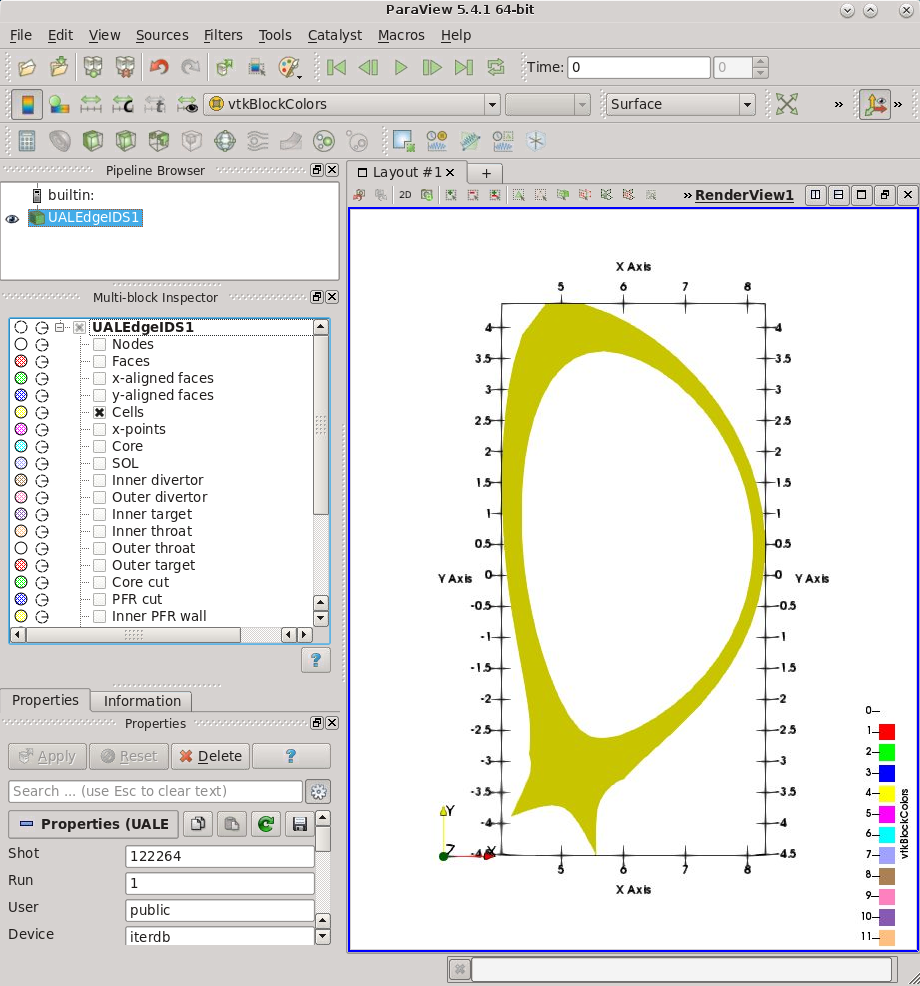
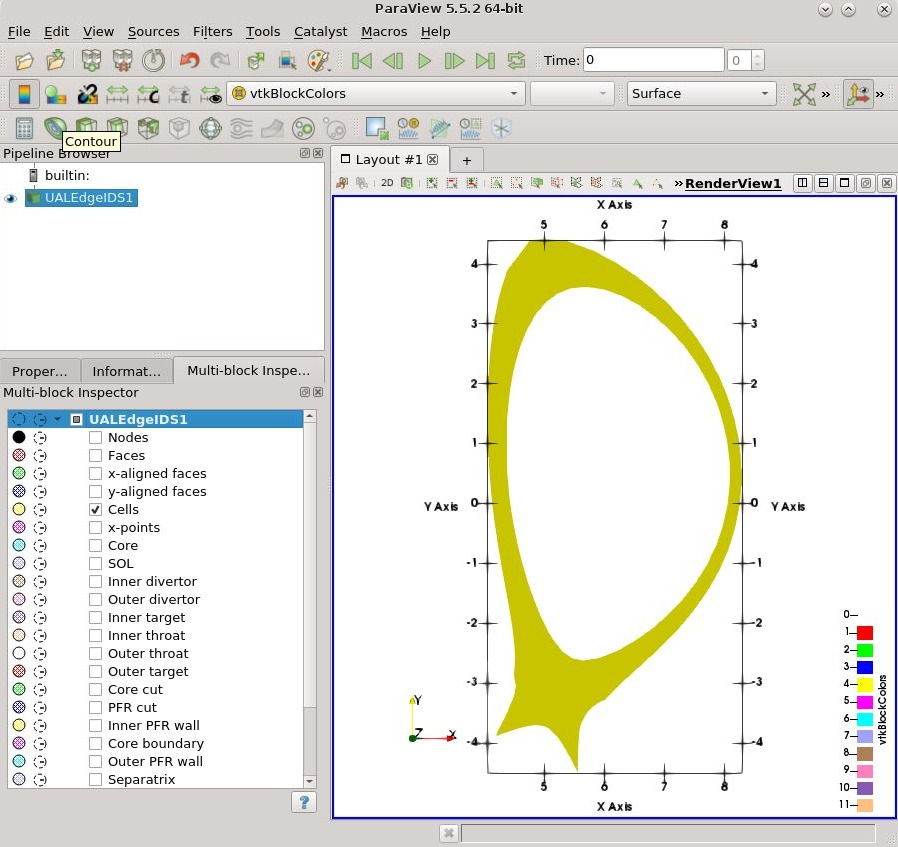
ReadUALEdge: documentation update.

diff --git a/doc/source/tutorial/edgeualplugin/index.rst b/doc/source/tutorial/edgeualplugin/index.rst
@@ -172,12 +172,14 @@ Loading and running the ReadUALEdge plugin is done in the next few steps:
    :numref:`pv-run-plugin-3` for ITER tokamak device.
 
   .. _pv-run-plugin-1:
+
   .. figure:: images/6_running_plugin.png
      :alt: Running the ReadUALEdge plugin
 
      Running the ReadUALEdge plugin
 
   .. _pv-run-plugin-2:
+
   .. figure:: images/7_plugin_run1.png
      :width: 100%
      :alt: Applying the ReadUALEdge plugin IDS database parameters
@@ -185,41 +187,46 @@ Loading and running the ReadUALEdge plugin is done in the next few steps:
      Applying the ReadUALEdge plugin database parameters
 
   .. _pv-run-plugin-3:
+
   .. figure:: images/8_plugin_run2.png
      :width: 100%
      :alt: Example of visualized data gathered from public ``iter`` database
 
      Example of visualized data gathered from public ``iter``  database
 
-.. note::
-   Sometimes after opening Iter tokamak database **no** visual
-   change in the ``View`` ``Browser`` can be seen, because of the
-   default zoom. To solve that press twice the :guilabel:`Reset`
+.. Note::
+
+   Sometimes after pressing the :guilabel:`Apply` button there might be
+   **no** visual change in the ``View`` ``Browser`` due to the
+   default zoom settings. To solve that press twice the :guilabel:`Reset`
    button found in :guilabel:`Toolbar`.
 
 Data analysis
 -------------
 
-In previous chapter we can notice that we have loaded data, but no
-useful information could be seen, just the geometry of the tokamak displaying
-a lot of colored grid elements. In this tutorial we'll first explain what
-those multiple colors represent and then how to display full information we want.
+In the previous section it could be noticed that the contents of the IDS were
+loaded, but a mix-up of different colors could be seen
+(as in Figure :numref:`pv-run-plugin-3`), displaying only the the geometry of
+the tokamak. Here it will be explained what those multiple colors represent and
+then how to display only the wanted segment of the full available data.
 
 Grid subsets and Multi-Block Inspector
 ~~~~~~~~~~~~~~~~~~~~~~~~~~~~~~~~~~~~~~
 
-Briefly said, grid subset is “a part” of the full grid geometry. In our case,
-the **Multi-Block Inspector** uses the grid subsets as blocks of data,
-displaying them in different colors with one color per block of data
+Briefly said, **grid subset** is a segment of the full **grid geometry**
+description which occur in codes such as **SOLPS-ITER** and **JINTRAC EDGE2D**.
+In our case,
+the **Multi-Block Inspector** uses the grid subsets as **blocks of data**,
+displaying them in **different colors** with one color per block of data
 as seen in Figure :numref:`pv-run-plugin-3`, and it
-is used to select and display only the wanted blocks of data.
+is used to select and display only a selection of the available blocks.
 
-To load the Multi-Block Inspector, go to Menu bar
-:menuselection:`View` and check the :menuselection:`Multi-Block
-Inspector` selection, as seen in :numref:`pv-loading-mbinsp`. Then
+To load the :guilabel:`Multi-Block Inspector`, go to :guilabel:`Menu bar`
+-> :guilabel:`View` and check the :guilabel:`Multi-Block Inspector`
+selection, as seen in :numref:`pv-loading-mbinsp`. Then
 you should have already noticed that a new interface called
-*Multi-Block Inspector* opened at the bottom of the Pipeline Browser,
-as seen in :numref:`pv-mbinsp`.
+**Multi-Block Inspector** tab opened at the bottom of the
+:guilabel:`Pipeline Browser`, as seen in :numref:`pv-mbinsp`.
 
 .. _pv-loading-mbinsp:
 .. figure:: images/11_loading_mbinsp.png
@@ -231,8 +238,9 @@ as seen in :numref:`pv-mbinsp`.
 
    Multi-Block Inspector
 
-Here we can select the wanted blocks we want to be seen in the *View
-Browser*. An example is shown in :numref:`pv-mbinscp-cells`, where
+Here any blocks can be selected or deselected and instant block selection change
+can be observed in the :guilabel:`View Browser`.
+An example is shown in :numref:`pv-mbinscp-cells`, where
 only the ``Cells`` block was selected, and in
 :numref:`pv-mbinscp-nodes`, where only the ``Nodes`` block was
 selected. We can also choose multiple blocks at once, as shown in
@@ -242,72 +250,80 @@ selected. We can also choose multiple blocks at once, as shown in
 .. _pv-mbinscp-cells:
 .. figure:: images/13_mbinsp_cells.png
    :alt: Displaying Cells block using Multi-Block Inspector
-   :width: 60%
+   :width: 80%
 
    Displaying Cells block using Multi-Block Inspector
 
 .. _pv-mbinscp-nodes:
 .. figure:: images/14_mbinsp_nodes.png
    :alt: Displaying Nodes block using Multi-Block Inspector
-   :width: 60%
+   :width: 80%
 
    Displaying Nodes block using Multi-Block Inspector
 
 .. _pv-mbinspc-sol-odivertor:
 .. figure:: images/15_mbinsp_sol-odivertor.png
    :alt: Displaying SOL and Outer Divertor blocks using Multi-Block Inspector
-   :width: 60%
+   :width: 80%
 
    Displaying SOL and Outer Divertor blocks using Multi-Block Inspector
 
 Data arrays
 ~~~~~~~~~~~
 
-Data arrays are holding data such as *electron density/temperature* and
-*ion density/temperature* values, which are used to color the blocks.
-When running the ReadUALedge plugin with the *Multi-Block Inspector* the
-*vtkBlockColors* layer is automatically selected, coloring the blocks
-with their specific block color. To select the wanted data layer
-navigate through **List of Data Arrays** found in Toolbar, as seen in
-:numref:`pv-data-arrays-list`. Examples are shown in Figures
+Data arrays are representing **plasma state quantities**
+such as *electron density/temperature* and
+*ion density/temperature* values, which are used to allocate values to the
+block elements (nodes, 2D cells etc.).
+When running the **ReadUALedge plugin** the so-called
+**vtkBlockColors** layer is automatically selected, coloring the blocks
+with their specific block color. Selection of the wanted data layer can be done
+by navigate through the **List of Data Arrays** found in :guilabel:`Toolbar`,
+as seen in :numref:`pv-data-arrays-list`. Examples are shown in Figures
 :numref:`pv-data-arrays-list-ne`, :numref:`pv-data-arrays-list-te` and
 :numref:`pv-data-arrays-list-te-core-sol`.
 
 .. _pv-data-arrays-list:
 .. figure:: images/16_data_arrays_list.png
-   :alt: List of data arrays
+   :alt: List of available quantity arrays.
 
-   List of data arrays
+   List of quantity arrays
 
 .. _pv-data-arrays-list-ne:
 
 .. figure:: images/17_data_arrays_ne_full.png
-   :width: 60%
-   :alt: Data layer Electron Density using Cell block
+   :width: 80%
+   :alt: **Cells** grid subset (block) selection with corresponding
+         **Electron Density** values.
 
-   Data layer Electron Density using Cell block
+   **Cells** grid subset (block) selection with corresponding
+   **Electron Density** values.
 
 .. _pv-data-arrays-list-te:
 
 .. figure:: images/18_data_arrays_te.png
    :width: 45%
-   :alt: Data layer Electron Temperature using Cell block
+   :alt: **Cells** grid subset (block) selection with corresponding
+         **Electron Temperature** values.
 
-   Data layer Electron Temperature using Cell block
+   **Cells** grid subset (block) selection with corresponding
+   **Electron Temperature** values.
 
 .. _pv-data-arrays-list-te-core-sol:
 
 .. figure:: images/19_data_arrays_te_core_sol.png
    :width: 45%
-   :alt: Data layer Electron Temperature using Core and SOL block
+   :alt: Core and SOL grid subset (block) selection with corresponding
+         **Electron Temperature** values.
 
-   Data layer Electron Temperature using Core and SOL block
+   **Core** and **SOL** grid subset (block) selection with corresponding
+   **Electron Temperature** values.
 
 Other useful ParaView tools
 ---------------------------
 
 .. note::
-   The tutorial below was made with ParaView 5.2.0.
+   The tutorial below was made with ParaView 5.1.0 and might be outdated.
 
 .. _paraview-python-filter:
 
